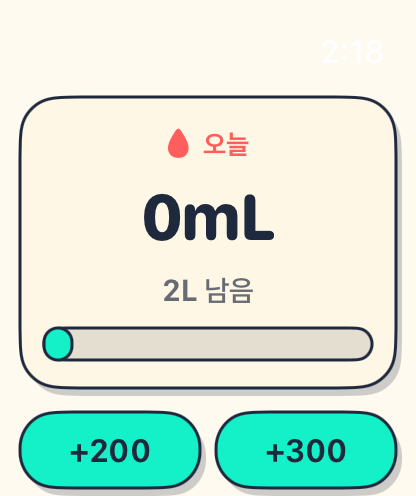
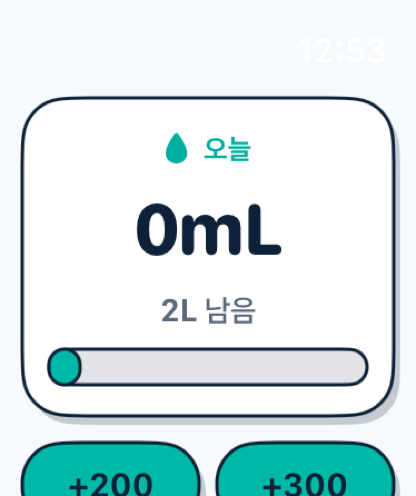
Sync AquaTick landing assets to current app UI
Replace marketing screenshots and app icon with mobile-mcp-verified
simulator captures (home, history, settings, watch) and update ko/en/ja
alt text and film captions for the new multi-card home, calendar heatmap,
and toggle-based settings.

diff --git a/aquatick/ja/index.html b/aquatick/ja/index.html
@@ -89,7 +89,7 @@
 <body>
   <header class="site-header">
     <a class="brand" href="/aquatick/">
-      <img src="/aquatick/assets/aquatick-app-icon.png" width="1024" height="1024" alt="AquaTick アイコン">
+      <img src="/aquatick/assets/aquatick-app-icon.png" width="1024" height="1024" alt="AquaTick アイコン — ティール色の猫キャラクター">
       <span>AquaTick</span>
     </a>
     <nav class="nav-links" aria-label="Page sections">
@@ -129,7 +129,7 @@
         <div class="hero-visual">
           <div class="iphone-frame">
             <img src="/aquatick/assets/screenshot-iphone-home.png" width="1206" height="2622" 
-                 alt="AquaTick iPhoneホーム — 猫がカップを持って待ち、500mL記録、水平ティール進行バーと残量表示">
+                 alt="AquaTick iPhoneホーム — 猫と500mL記録、クイック追加カードと4タブバーのマルチカードレイアウト">
           </div>
           <div class="cat-sticker" data-active-text="記録完了！">猫が待っています</div>
           <div class="floating-proof floating-proof-left">3秒で記録</div>
@@ -240,20 +240,20 @@
           <!-- Film 1: Home -->
           <div class="film-card">
             <img src="/aquatick/assets/screenshot-iphone-home.png" width="1206" height="2622" loading="lazy"
-                 alt="AquaTick iPhoneホーム — 猫と一緒に500mL記録、水平プログレスバーと詳細ステータス">
+                 alt="AquaTick iPhoneホーム — 猫と500mL記録、クイック追加カードと4タブバー">
             <div class="film-caption">
-              <strong>アプリを探す前に</strong>
-              アプリを開かなくても、500mLの記録と今日の残りの量がすぐ見えます。
+              <strong>アプリを開くと</strong>
+              今日の摂取量、クイック追加、直接入力が1画面にまとまります。
             </div>
           </div>
 
           <!-- Film 2: History -->
           <div class="film-card">
             <img src="/aquatick/assets/screenshot-iphone-history.png" width="1206" height="2622" loading="lazy"
-                 alt="AquaTick ヒストリー — カレンダーと日々の水分記録、猫のキャラクターと一緒に">
+                 alt="AquaTick ヒストリー — 目標達成ヒートマップ付きカレンダーと日別記録リスト">
             <div class="film-caption">
               <strong>1日の終わりに</strong>
-              月間カレンダーと最近の流れで、実際にどれだけ飲めたか確認します。
+              目標達成日が色で分かるカレンダーと記録リストで流れを確認します。
             </div>
           </div>
 
@@ -270,10 +270,10 @@
           <!-- Film 4: Settings -->
           <div class="film-card">
             <img src="/aquatick/assets/screenshot-iphone-settings.png" width="1206" height="2622" loading="lazy"
-                 alt="AquaTick設定 — 1日の目標、リマインダー、任意のAppleヘルス連携">
+                 alt="AquaTick設定 — 1日の目標、ライブアクティビティ・通知・Appleヘルスのトグル">
             <div class="film-caption">
               <strong>最初の1分設定</strong>
-              目標、リマインダー、任意のAppleヘルス連携を決めれば、アカウントなしで始められます。
+              目標とライブアクティビティ・通知・Appleヘルスのトグルを決めれば、アカウントなしで始められます。
             </div>
           </div>
         </div>

diff --git a/site-src/templates/aquatick/ja/index.html b/site-src/templates/aquatick/ja/index.html
@@ -89,7 +89,7 @@
 <body>
   <header class="site-header">
     <a class="brand" href="/aquatick/">
-      <img src="/aquatick/assets/aquatick-app-icon.png" width="1024" height="1024" alt="AquaTick アイコン">
+      <img src="/aquatick/assets/aquatick-app-icon.png" width="1024" height="1024" alt="AquaTick アイコン — ティール色の猫キャラクター">
       <span>AquaTick</span>
     </a>
     <nav class="nav-links" aria-label="Page sections">
@@ -129,7 +129,7 @@
         <div class="hero-visual">
           <div class="iphone-frame">
             <img src="/aquatick/assets/screenshot-iphone-home.png" width="1206" height="2622" 
-                 alt="AquaTick iPhoneホーム — 猫がカップを持って待ち、500mL記録、水平ティール進行バーと残量表示">
+                 alt="AquaTick iPhoneホーム — 猫と500mL記録、クイック追加カードと4タブバーのマルチカードレイアウト">
           </div>
           <div class="cat-sticker" data-active-text="記録完了！">猫が待っています</div>
           <div class="floating-proof floating-proof-left">3秒で記録</div>
@@ -240,20 +240,20 @@
           <!-- Film 1: Home -->
           <div class="film-card">
             <img src="/aquatick/assets/screenshot-iphone-home.png" width="1206" height="2622" loading="lazy"
-                 alt="AquaTick iPhoneホーム — 猫と一緒に500mL記録、水平プログレスバーと詳細ステータス">
+                 alt="AquaTick iPhoneホーム — 猫と500mL記録、クイック追加カードと4タブバー">
             <div class="film-caption">
-              <strong>アプリを探す前に</strong>
-              アプリを開かなくても、500mLの記録と今日の残りの量がすぐ見えます。
+              <strong>アプリを開くと</strong>
+              今日の摂取量、クイック追加、直接入力が1画面にまとまります。
             </div>
           </div>
 
           <!-- Film 2: History -->
           <div class="film-card">
             <img src="/aquatick/assets/screenshot-iphone-history.png" width="1206" height="2622" loading="lazy"
-                 alt="AquaTick ヒストリー — カレンダーと日々の水分記録、猫のキャラクターと一緒に">
+                 alt="AquaTick ヒストリー — 目標達成ヒートマップ付きカレンダーと日別記録リスト">
             <div class="film-caption">
               <strong>1日の終わりに</strong>
-              月間カレンダーと最近の流れで、実際にどれだけ飲めたか確認します。
+              目標達成日が色で分かるカレンダーと記録リストで流れを確認します。
             </div>
           </div>
 
@@ -270,10 +270,10 @@
           <!-- Film 4: Settings -->
           <div class="film-card">
             <img src="/aquatick/assets/screenshot-iphone-settings.png" width="1206" height="2622" loading="lazy"
-                 alt="AquaTick設定 — 1日の目標、リマインダー、任意のAppleヘルス連携">
+                 alt="AquaTick設定 — 1日の目標、ライブアクティビティ・通知・Appleヘルスのトグル">
             <div class="film-caption">
               <strong>最初の1分設定</strong>
-              目標、リマインダー、任意のAppleヘルス連携を決めれば、アカウントなしで始められます。
+              目標とライブアクティビティ・通知・Appleヘルスのトグルを決めれば、アカウントなしで始められます。
             </div>
           </div>
         </div>

diff --git a/aquatick/ko/index.html b/aquatick/ko/index.html
@@ -89,7 +89,7 @@
 <body>
   <header class="site-header">
     <a class="brand" href="/aquatick/">
-      <img src="/aquatick/assets/aquatick-app-icon.png" width="1024" height="1024" alt="AquaTick 아이콘">
+      <img src="/aquatick/assets/aquatick-app-icon.png" width="1024" height="1024" alt="AquaTick 아이콘 — 청록색 고양이 캐릭터">
       <span>AquaTick</span>
     </a>
     <nav class="nav-links" aria-label="Page sections">
@@ -129,7 +129,7 @@
         <div class="hero-visual">
           <div class="iphone-frame">
             <img src="/aquatick/assets/screenshot-iphone-home.png" width="1206" height="2622" 
-                 alt="AquaTick iPhone 홈 — 고양이가 물을 기다리며 500mL를 기록한 화면, 수평 teal 진행 바와 남은 양 표시">
+                 alt="AquaTick iPhone 홈 — 고양이와 500mL 기록, 빠른 추가 카드와 4탭 바가 있는 멀티 카드 레이아웃">
           </div>
           <div class="cat-sticker" data-active-text="기록 끝!">고양이가 기다림</div>
           <div class="floating-proof floating-proof-left">3초 기록</div>
@@ -240,20 +240,20 @@
           <!-- Film 1: Home -->
           <div class="film-card">
             <img src="/aquatick/assets/screenshot-iphone-home.png" width="1206" height="2622" loading="lazy"
-                 alt="AquaTick iPhone 홈 화면 — 고양이와 함께 500mL 기록, 수평 진행 바와 상세 상태">
+                 alt="AquaTick iPhone 홈 화면 — 고양이와 500mL 기록, 빠른 추가 카드와 4탭 바">
             <div class="film-caption">
-              <strong>잠금 화면을 보기 전</strong>
-              앱을 열지 않아도 500mL 기록과 오늘 남은 양이 바로 보입니다.
+              <strong>앱을 열면</strong>
+              고양이와 함께 오늘 섭취량, 빠른 추가, 직접 입력이 한 화면에 모입니다.
             </div>
           </div>
 
           <!-- Film 2: History -->
           <div class="film-card">
             <img src="/aquatick/assets/screenshot-iphone-history.png" width="1206" height="2622" loading="lazy"
-                 alt="AquaTick 히스토리 — 달력과 일별 물 기록, 고양이 캐릭터와 함께">
+                 alt="AquaTick 히스토리 — 목표 달성 히트맵이 있는 달력과 일별 기록 목록">
             <div class="film-caption">
               <strong>하루가 끝난 뒤</strong>
-              월간 캘린더와 최근 흐름으로 내가 실제로 얼마나 마셨는지 확인합니다.
+              목표 달성 날짜가 색으로 보이는 달력과 기록 목록으로 흐름을 확인합니다.
             </div>
           </div>
 
@@ -270,10 +270,10 @@
           <!-- Film 4: Settings -->
           <div class="film-card">
             <img src="/aquatick/assets/screenshot-iphone-settings.png" width="1206" height="2622" loading="lazy"
-                 alt="AquaTick 설정 — 일일 목표, 알림, 선택적 Apple 건강 앱 연동">
+                 alt="AquaTick 설정 — 일일 목표, 라이브 액티비티·알림·Apple 건강 토글">
             <div class="film-caption">
               <strong>처음 1분 설정</strong>
-              목표와 알림, 선택적 Apple 건강 앱 연동만 정하면 계정 없이 시작합니다.
+              목표와 라이브 액티비티·알림·Apple 건강 토글만 켜면 계정 없이 시작합니다.
             </div>
           </div>
         </div>

diff --git a/site-src/templates/aquatick/ko/index.html b/site-src/templates/aquatick/ko/index.html
@@ -89,7 +89,7 @@
 <body>
   <header class="site-header">
     <a class="brand" href="/aquatick/">
-      <img src="/aquatick/assets/aquatick-app-icon.png" width="1024" height="1024" alt="AquaTick 아이콘">
+      <img src="/aquatick/assets/aquatick-app-icon.png" width="1024" height="1024" alt="AquaTick 아이콘 — 청록색 고양이 캐릭터">
       <span>AquaTick</span>
     </a>
     <nav class="nav-links" aria-label="Page sections">
@@ -129,7 +129,7 @@
         <div class="hero-visual">
           <div class="iphone-frame">
             <img src="/aquatick/assets/screenshot-iphone-home.png" width="1206" height="2622" 
-                 alt="AquaTick iPhone 홈 — 고양이가 물을 기다리며 500mL를 기록한 화면, 수평 teal 진행 바와 남은 양 표시">
+                 alt="AquaTick iPhone 홈 — 고양이와 500mL 기록, 빠른 추가 카드와 4탭 바가 있는 멀티 카드 레이아웃">
           </div>
           <div class="cat-sticker" data-active-text="기록 끝!">고양이가 기다림</div>
           <div class="floating-proof floating-proof-left">3초 기록</div>
@@ -240,20 +240,20 @@
           <!-- Film 1: Home -->
           <div class="film-card">
             <img src="/aquatick/assets/screenshot-iphone-home.png" width="1206" height="2622" loading="lazy"
-                 alt="AquaTick iPhone 홈 화면 — 고양이와 함께 500mL 기록, 수평 진행 바와 상세 상태">
+                 alt="AquaTick iPhone 홈 화면 — 고양이와 500mL 기록, 빠른 추가 카드와 4탭 바">
             <div class="film-caption">
-              <strong>잠금 화면을 보기 전</strong>
-              앱을 열지 않아도 500mL 기록과 오늘 남은 양이 바로 보입니다.
+              <strong>앱을 열면</strong>
+              고양이와 함께 오늘 섭취량, 빠른 추가, 직접 입력이 한 화면에 모입니다.
             </div>
           </div>
 
           <!-- Film 2: History -->
           <div class="film-card">
             <img src="/aquatick/assets/screenshot-iphone-history.png" width="1206" height="2622" loading="lazy"
-                 alt="AquaTick 히스토리 — 달력과 일별 물 기록, 고양이 캐릭터와 함께">
+                 alt="AquaTick 히스토리 — 목표 달성 히트맵이 있는 달력과 일별 기록 목록">
             <div class="film-caption">
               <strong>하루가 끝난 뒤</strong>
-              월간 캘린더와 최근 흐름으로 내가 실제로 얼마나 마셨는지 확인합니다.
+              목표 달성 날짜가 색으로 보이는 달력과 기록 목록으로 흐름을 확인합니다.
             </div>
           </div>
 
@@ -270,10 +270,10 @@
           <!-- Film 4: Settings -->
           <div class="film-card">
             <img src="/aquatick/assets/screenshot-iphone-settings.png" width="1206" height="2622" loading="lazy"
-                 alt="AquaTick 설정 — 일일 목표, 알림, 선택적 Apple 건강 앱 연동">
+                 alt="AquaTick 설정 — 일일 목표, 라이브 액티비티·알림·Apple 건강 토글">
             <div class="film-caption">
               <strong>처음 1분 설정</strong>
-              목표와 알림, 선택적 Apple 건강 앱 연동만 정하면 계정 없이 시작합니다.
+              목표와 라이브 액티비티·알림·Apple 건강 토글만 켜면 계정 없이 시작합니다.
             </div>
           </div>
         </div>

diff --git a/aquatick/en/index.html b/aquatick/en/index.html
@@ -89,7 +89,7 @@
 <body>
   <header class="site-header">
     <a class="brand" href="/aquatick/">
-      <img src="/aquatick/assets/aquatick-app-icon.png" width="1024" height="1024" alt="AquaTick icon">
+      <img src="/aquatick/assets/aquatick-app-icon.png" width="1024" height="1024" alt="AquaTick icon — teal kitten character">
       <span>AquaTick</span>
     </a>
     <nav class="nav-links" aria-label="Page sections">
@@ -129,7 +129,7 @@
         <div class="hero-visual">
           <div class="iphone-frame">
             <img src="/aquatick/assets/screenshot-iphone-home.png" width="1206" height="2622" 
-                 alt="AquaTick iPhone home — cat waiting with a cup after 500mL logged, horizontal teal progress bar and remaining amount">
+                 alt="AquaTick iPhone home — cat with 500mL logged, quick-add cards and 4-tab bar in a multi-card layout">
           </div>
           <div class="cat-sticker" data-active-text="Logged!">The cat waits</div>
           <div class="floating-proof floating-proof-left">3-sec log</div>
@@ -240,20 +240,20 @@
           <!-- Film 1: Home -->
           <div class="film-card">
             <img src="/aquatick/assets/screenshot-iphone-home.png" width="1206" height="2622" loading="lazy"
-                 alt="AquaTick iPhone home — cat waiting with 500mL logged, horizontal progress bar and detailed status">
+                 alt="AquaTick iPhone home — cat with 500mL logged, quick-add cards and 4-tab bar">
             <div class="film-caption">
-              <strong>Before opening your phone</strong>
-              See 500mL logged and today's remaining amount without going hunting for the app.
+              <strong>When you open the app</strong>
+              Today's intake, quick add, and manual entry sit together on one home screen.
             </div>
           </div>
 
           <!-- Film 2: History -->
           <div class="film-card">
             <img src="/aquatick/assets/screenshot-iphone-history.png" width="1206" height="2622" loading="lazy"
-                 alt="AquaTick history — calendar and daily water logs together with the cat character">
+                 alt="AquaTick history — calendar heatmap for goal-met days and daily record list">
             <div class="film-caption">
               <strong>At the end of the day</strong>
-              Check the monthly calendar and recent flow to see what actually happened.
+              A color-coded calendar and record list show how your week actually went.
             </div>
           </div>
 
@@ -270,10 +270,10 @@
           <!-- Film 4: Settings -->
           <div class="film-card">
             <img src="/aquatick/assets/screenshot-iphone-settings.png" width="1206" height="2622" loading="lazy"
-                 alt="AquaTick settings — daily goal, reminders, and optional Apple Health sync">
+                 alt="AquaTick settings — daily goal with Live Activity, notifications, and Apple Health toggles">
             <div class="film-caption">
               <strong>One-minute setup</strong>
-              Set your goal, reminders, and optional Apple Health sync. No account required.
+              Set your goal and flip Live Activity, notifications, and Apple Health toggles. No account required.
             </div>
           </div>
         </div>

diff --git a/site-src/templates/aquatick/en/index.html b/site-src/templates/aquatick/en/index.html
@@ -89,7 +89,7 @@
 <body>
   <header class="site-header">
     <a class="brand" href="/aquatick/">
-      <img src="/aquatick/assets/aquatick-app-icon.png" width="1024" height="1024" alt="AquaTick icon">
+      <img src="/aquatick/assets/aquatick-app-icon.png" width="1024" height="1024" alt="AquaTick icon — teal kitten character">
       <span>AquaTick</span>
     </a>
     <nav class="nav-links" aria-label="Page sections">
@@ -129,7 +129,7 @@
         <div class="hero-visual">
           <div class="iphone-frame">
             <img src="/aquatick/assets/screenshot-iphone-home.png" width="1206" height="2622" 
-                 alt="AquaTick iPhone home — cat waiting with a cup after 500mL logged, horizontal teal progress bar and remaining amount">
+                 alt="AquaTick iPhone home — cat with 500mL logged, quick-add cards and 4-tab bar in a multi-card layout">
           </div>
           <div class="cat-sticker" data-active-text="Logged!">The cat waits</div>
           <div class="floating-proof floating-proof-left">3-sec log</div>
@@ -240,20 +240,20 @@
           <!-- Film 1: Home -->
           <div class="film-card">
             <img src="/aquatick/assets/screenshot-iphone-home.png" width="1206" height="2622" loading="lazy"
-                 alt="AquaTick iPhone home — cat waiting with 500mL logged, horizontal progress bar and detailed status">
+                 alt="AquaTick iPhone home — cat with 500mL logged, quick-add cards and 4-tab bar">
             <div class="film-caption">
-              <strong>Before opening your phone</strong>
-              See 500mL logged and today's remaining amount without going hunting for the app.
+              <strong>When you open the app</strong>
+              Today's intake, quick add, and manual entry sit together on one home screen.
             </div>
           </div>
 
           <!-- Film 2: History -->
           <div class="film-card">
             <img src="/aquatick/assets/screenshot-iphone-history.png" width="1206" height="2622" loading="lazy"
-                 alt="AquaTick history — calendar and daily water logs together with the cat character">
+                 alt="AquaTick history — calendar heatmap for goal-met days and daily record list">
             <div class="film-caption">
               <strong>At the end of the day</strong>
-              Check the monthly calendar and recent flow to see what actually happened.
+              A color-coded calendar and record list show how your week actually went.
             </div>
           </div>
 
@@ -270,10 +270,10 @@
           <!-- Film 4: Settings -->
           <div class="film-card">
             <img src="/aquatick/assets/screenshot-iphone-settings.png" width="1206" height="2622" loading="lazy"
-                 alt="AquaTick settings — daily goal, reminders, and optional Apple Health sync">
+                 alt="AquaTick settings — daily goal with Live Activity, notifications, and Apple Health toggles">
             <div class="film-caption">
               <strong>One-minute setup</strong>
-              Set your goal, reminders, and optional Apple Health sync. No account required.
+              Set your goal and flip Live Activity, notifications, and Apple Health toggles. No account required.
             </div>
           </div>
         </div>
